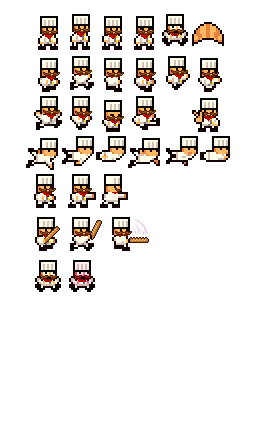
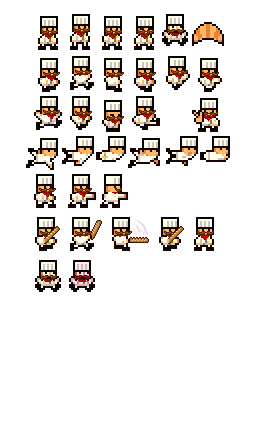
Cooldown Ataque

Changed region(s): [[0.75, 0.4688, 0.8438, 0.5625], [0.625, 0.4688, 0.7188, 0.5625]]

diff --git a/personajes.py b/personajes.py
@@ -96,6 +96,7 @@ class Personaje(MiSprite):
         datos = datos.split()
         self.numPostura = 1
         self.numImagenPostura = 0
+        self.prevPostura = 1
         cont = 0
         self.coordenadasHoja = []
         for linea in range(0, 5):
@@ -144,7 +145,7 @@ class Personaje(MiSprite):
             self.retardoMovimiento = self.retardoAnimacion
             # Si ha pasado, actualizamos la postura
             self.numImagenPostura += 1
-            if self.numImagenPostura >= len(self.coordenadasHoja[self.numPostura]):
+            if self.numImagenPostura >= len(self.coordenadasHoja[self.numPostura]) or self.numPostura != self.prevPostura:
                 self.numImagenPostura = 0
             if self.numImagenPostura < 0:
                 self.numImagenPostura = len(self.coordenadasHoja[self.numPostura]) - 1
@@ -157,6 +158,7 @@ class Personaje(MiSprite):
             elif self.mirando == IZQUIERDA:
                 self.image = pygame.transform.flip(
                     self.hoja.subsurface(self.coordenadasHoja[self.numPostura][self.numImagenPostura]), 1, 0)
+        self.prevPostura = self.numPostura
 
     def update(self, grupoPlataformas, tiempo):
 
@@ -193,6 +195,9 @@ class Personaje(MiSprite):
         # Si queremos atacar
         elif self.movimiento == ATACAR_BAGUETTE:
             self.numPostura = SPRITE_BAGUETTAZO
+            if self.numImagenPostura >= 3:
+                self.atacando = False
+                self.movimiento = QUIETO
 
         # Si no se ha pulsado ninguna tecla
         elif self.movimiento == QUIETO:
@@ -243,27 +248,38 @@ class Jugador(Personaje):
 
     def __init__(self):
         # Invocamos al constructor de la clase padre con la configuracion de este personaje concreto
-        Personaje.__init__(self, 'francois_with_hit.png', 'coordJugador.txt', [3, 6, 1, 1, 3], VELOCIDAD_JUGADOR,
+        Personaje.__init__(self, 'francois_with_hit.png', 'coordJugador.txt', [3, 6, 1, 1, 5], VELOCIDAD_JUGADOR,
                            VELOCIDAD_SALTO_JUGADOR, RETARDO_ANIMACION_JUGADOR)
         
         self.vida = VIDA_TOTAL
+        self.atacando = False
+        self.cooldownBaguette = 0
 
     def mover(self, teclasPulsadas, arriba, abajo, izquierda, derecha, ataque):
         # Indicamos la acción a realizar segun la tecla pulsada para el jugador
-        if teclasPulsadas[arriba]:
-            Personaje.mover(self, ARRIBA)
-        elif teclasPulsadas[izquierda]:
-            Personaje.mover(self, IZQUIERDA)
-        elif teclasPulsadas[derecha]:
-            Personaje.mover(self, DERECHA)
-        elif teclasPulsadas[ataque]:
-            Personaje.mover(self, ATACAR_BAGUETTE)
-        else:
-            Personaje.mover(self, QUIETO)
+        if self.atacando == False:
+            if teclasPulsadas[arriba]:
+                Personaje.mover(self, ARRIBA)
+            elif teclasPulsadas[izquierda]:
+                Personaje.mover(self, IZQUIERDA)
+            elif teclasPulsadas[derecha]:
+                Personaje.mover(self, DERECHA)
+            elif teclasPulsadas[ataque]:
+                if self.cooldownBaguette <= 0:
+                    self.atacar()
+                    Personaje.mover(self, ATACAR_BAGUETTE)
+            else:
+                Personaje.mover(self, QUIETO)
 
-    def atacar(self, superficie):
+        # Reduccion en el cooldown desde el ultimo ataque        
+        if self.cooldownBaguette > 0:
+            self.cooldownBaguette -= 1
+
+    def atacar(self):
+        self.atacando = True
+        self.cooldownBaguette = 70
         # Rectangulo colision de ataque
-        rect_ataque = pygame.Rect(self.rect.centerx, self.rect.y, 1.5 * self.rect.width, self.rect.height)
+        #rect_ataque = pygame.Rect(self.rect.centerx, self.rect.y, 1.5 * self.rect.width, self.rect.height)
 
 
 class NoJugador(Personaje):
